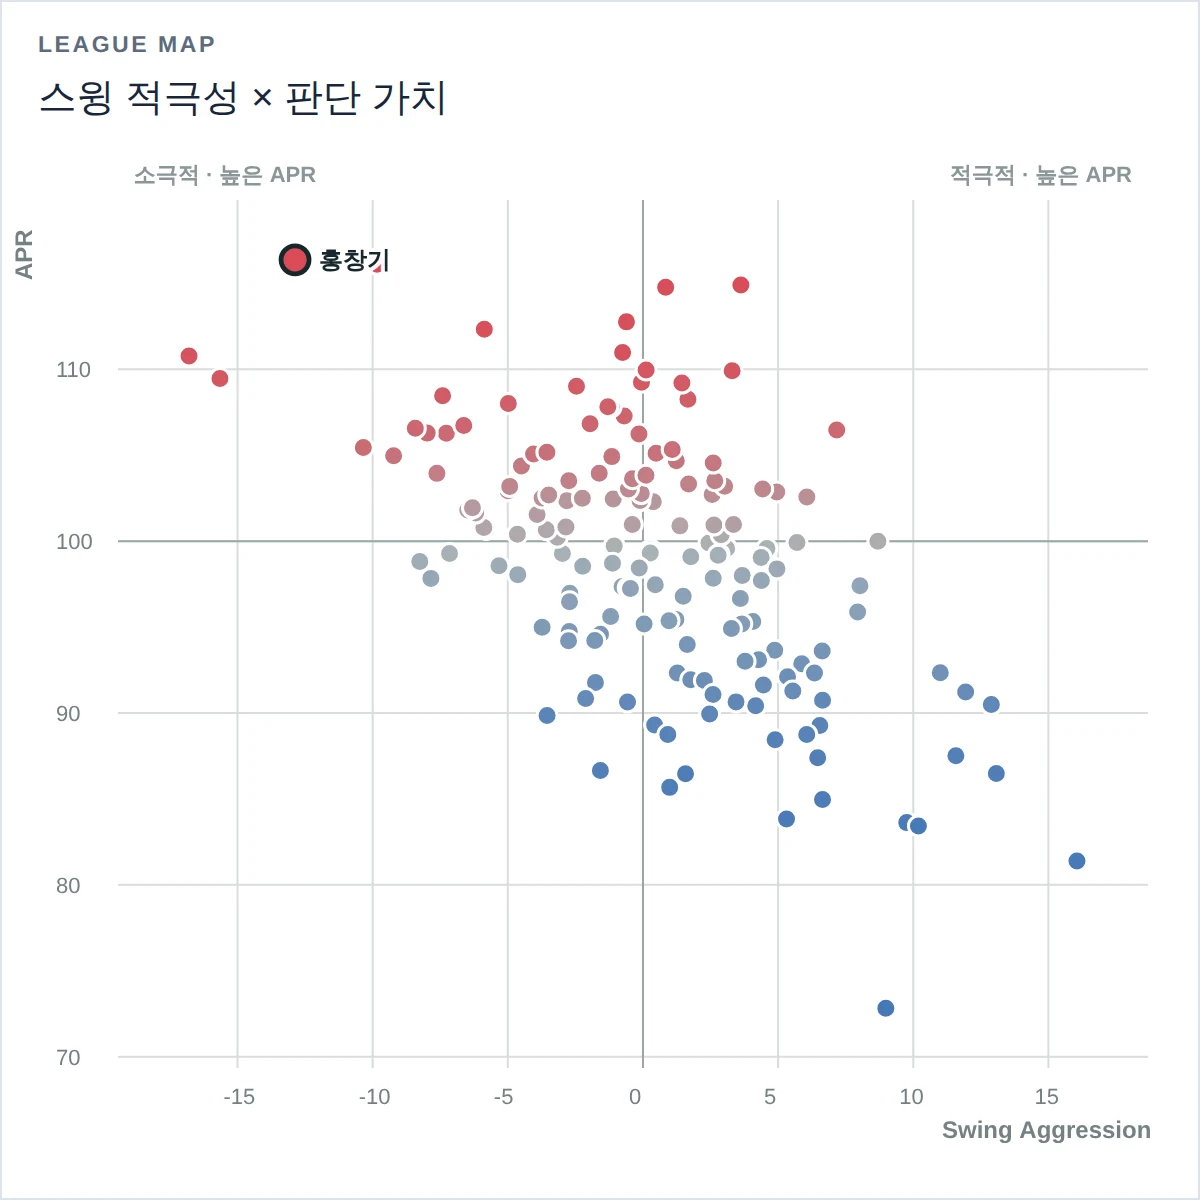
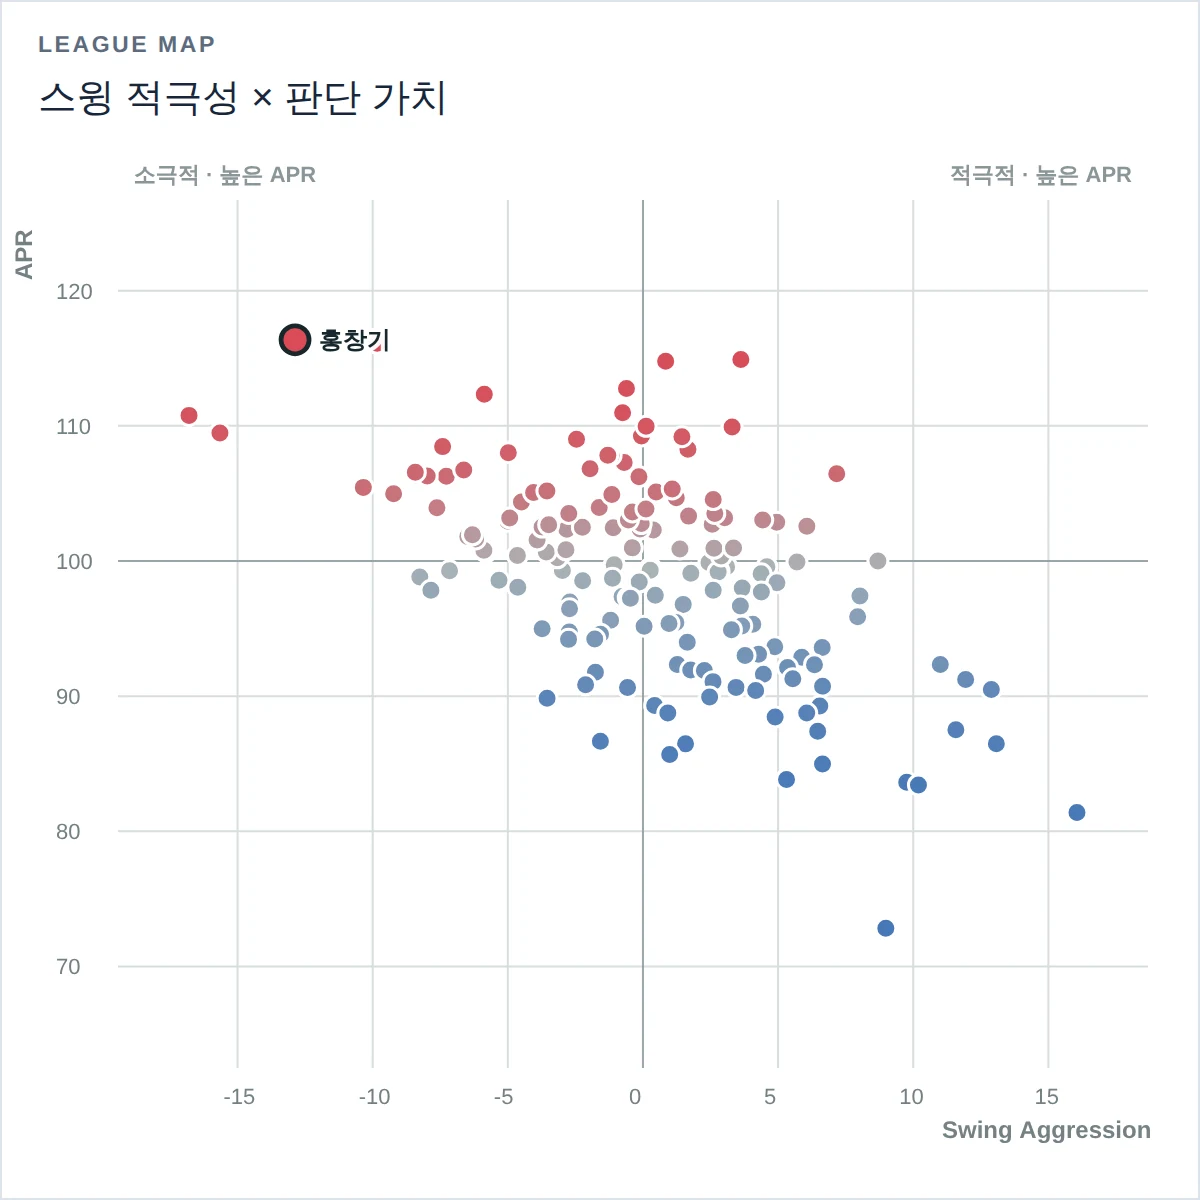
web: League Map 격자를 정사각형으로, 순위표 제목을 Decision Leaderboard로
- 산점도 축 범위를 조정해 SA 5 × APR 10 격자 한 칸이 가로·세로 같은
  픽셀이 되게 했다. 좁은 축이 칸 크기를 정하고, 다른 축은 데이터
  중심을 기준으로 넓힌다.
- 순위표 제목 "APR 순위"를 "Decision Leaderboard"로 바꿨다.

Claude-Session: https://claude.ai/code/session_01D5vNG8LeuVMrvTeSxZqr8g

diff --git a/web/zone-awareness/index.html b/web/zone-awareness/index.html
@@ -25,7 +25,7 @@
         <div class="canvas-wrap"><canvas id="scatter" width="760" height="560" aria-label="Swing Aggression과 APR 리그 산점도"></canvas><div class="tooltip" id="scatter-tip"></div></div>
       </article>
       <article class="card leaderboard-card">
-        <div class="card-head"><div><p class="eyebrow">QUALIFIED</p><h2>APR 순위</h2></div><span id="qualified-count"></span></div>
+        <div class="card-head"><div><p class="eyebrow">QUALIFIED</p><h2>Decision Leaderboard</h2></div><span id="qualified-count"></span></div>
         <label class="search"><span>선수 검색</span><input id="player-search" type="search" placeholder="이름 또는 팀"></label>
         <div class="table-wrap"><table><thead><tr><th data-sort="rank">#</th><th data-sort="batter_name">선수</th><th data-sort="apr">APR</th><th data-sort="za_raw">ZA</th><th data-sort="swing_aggression">SA</th></tr></thead><tbody id="leaderboard"></tbody></table></div>
       </article>
@@ -68,6 +68,6 @@
 
     <section class="method card"><p class="eyebrow">METHOD · 2019–2026</p><h2>읽는 법</h2><div><p><strong>APR</strong>(Approach)은 Swing·Take 선택의 득점 가치를 wRC+처럼 나타냅니다. 공마다 위치·카운트·구종·구속 등이 같은 공에서 리그 평균 타자가 했을 선택을 기준으로, 실제 선택이 기대득점을 얼마나 더 얻었는지 합산합니다. 리그 평균이 100이고, 120이면 선택 가치가 평균보다 20% 많다는 뜻입니다. 공을 적게 본 타자는 표본만큼 평균 쪽으로 당겨 계산합니다. APR Percentile은 시즌 300구 이상 타자 분포에서의 위치이며, 300구 미만 타자도 같은 기준으로 표시하되 자격 미달로 구분합니다.</p><p><strong>ZA</strong>(Zone Awareness)는 스트라이크는 치고 볼은 거르는 구별 능력입니다. 같은 공에서 리그 평균 타자의 선택보다 판정에 맞는 선택을 몇 %p 더 했는지를 나타내며, 득점 가치로 가중하지 않습니다. 그래서 2스트라이크 판단도 0스트라이크 판단과 같은 무게로 셉니다(옛 이름 SBJ). <strong>SA</strong>(Swing Aggression)는 같은 공에서 기대되는 스윙률보다 실제로 얼마나 더 휘둘렀는지를 나타내는 성향 지표이며, 높고 낮음이 좋고 나쁨을 뜻하지 않습니다.</p><p><strong>세 지표의 관계</strong> · APR은 “선택이 득점으로 얼마였나”, ZA는 “볼과 스트라이크를 가려 쳤나”, SA는 “얼마나 휘둘렀나”를 봅니다. 같은 선구안에서 나온 지표라 서로 상관하지만 같은 것을 재지 않습니다. 판정은 정확하지만 2스트라이크처럼 비싼 상황에서 자주 틀리는 타자는 ZA보다 APR이 낮게 나옵니다. 공격성은 SA로 따로 보며, ZA도 공격성과 완전히 무관하지는 않습니다.</p><p><strong>알려진 한계</strong> · 스윙의 가치는 리그 평균 타자의 실행 능력으로 계산하므로, 어려운 공도 잘 쳐내는 타자의 컨택·장타 능력은 반영되지 않습니다. 또 존 밖 스윙의 손해가 존 안 테이크의 손해보다 커서, 덜 휘두르는 타자의 APR이 높게 나오는 경향이 있습니다.</p><p><strong>모형 안정성</strong> · 스윙 기대치는 존 안과 존 밖을 나눠 보정해 리그 평균 타자가 0이 되도록 맞추고, 스트라이크 확률은 모형 5개의 평균입니다. 같은 데이터로 다시 적합해도 선수 ZA가 달라지는 폭은 평균 0.05pp 이하입니다. 선택 가치(DV·APR) 계산의 무브먼트는 TrackMan으로 검증한 구장·날짜 보정값을 씁니다.</p><p><strong>데이터 정정</strong> · 볼로 기록된 번트 파울과 번트 헛스윙은 TrackMan·네이버 중계로 확인해 스윙·테이크에서 뺐고, 대타가 이어받은 카운트와 피치클락 위반은 네이버 중계 카운트로 바로잡았습니다. 보고 위치가 자기 궤적과 1cm 넘게 어긋나는 공(2025년 6구)은 기록이 섞인 것으로 보고 제외했습니다.</p></div><p id="season-method"></p></section>
   </main>
-  <script src="zone-awareness.js?v=20261003-2"></script>
+  <script src="zone-awareness.js?v=20261003-3"></script>
 </body>
 </html>

diff --git a/web/zone-awareness/zone-awareness.js b/web/zone-awareness/zone-awareness.js
@@ -75,11 +75,14 @@ function drawScatter(){
   const canvas=$("#scatter"), {ctx,width:w,height:h}=canvasContext(canvas), pad={l:58,r:25,t:28,b:48};
   const xs=state.players.map(p=>p.swing_aggression), ys=state.players.map(p=>p.apr);
   const xPad=Math.max(1,(Math.max(...xs)-Math.min(...xs))*.08), yPad=Math.max(2,(Math.max(...ys)-Math.min(...ys))*.08);
-  const xLo=Math.min(...xs)-xPad,xHi=Math.max(...xs)+xPad,yLo=Math.min(...ys)-yPad,yHi=Math.max(...ys)+yPad;
-  const x=v=>pad.l+(v-xLo)/(xHi-xLo)*(w-pad.l-pad.r), y=v=>h-pad.b-(v-yLo)/(yHi-yLo)*(h-pad.t-pad.b);
+  const xStep=5,yStep=10,plotW=w-pad.l-pad.r,plotH=h-pad.t-pad.b;
+  // Square grid cells: one 5-SA by 10-APR cell takes the same pixels both ways; the tighter axis sets the size and the other widens around its centre.
+  let xLo=Math.min(...xs)-xPad,xHi=Math.max(...xs)+xPad,yLo=Math.min(...ys)-yPad,yHi=Math.max(...ys)+yPad;
+  const cell=Math.min(plotW/(xHi-xLo)*xStep,plotH/(yHi-yLo)*yStep),xMid=(xLo+xHi)/2,yMid=(yLo+yHi)/2,xHalf=plotW/cell*xStep/2,yHalf=plotH/cell*yStep/2;
+  xLo=xMid-xHalf;xHi=xMid+xHalf;yLo=yMid-yHalf;yHi=yMid+yHalf;
+  const x=v=>pad.l+(v-xLo)/(xHi-xLo)*plotW, y=v=>h-pad.b-(v-yLo)/(yHi-yLo)*plotH;
   ctx.clearRect(0,0,w,h); ctx.fillStyle="#ffffff";ctx.fillRect(0,0,w,h);
   ctx.strokeStyle="#d8dddd";ctx.lineWidth=1;ctx.font="11px Arial";ctx.fillStyle="#748084";
-  const xStep=5,yStep=10;
   for(let v=Math.ceil(xLo/xStep)*xStep;v<=xHi;v+=xStep){ctx.beginPath();ctx.moveTo(x(v),pad.t);ctx.lineTo(x(v),h-pad.b);ctx.stroke();ctx.fillText(v,x(v)-7,h-pad.b+18);}
   for(let v=Math.ceil(yLo/yStep)*yStep;v<=yHi;v+=yStep){ctx.beginPath();ctx.moveTo(pad.l,y(v));ctx.lineTo(w-pad.r,y(v));ctx.stroke();ctx.fillText(v,pad.l-31,y(v)+4);}
   ctx.strokeStyle="#9aa6a9";ctx.lineWidth=1;ctx.beginPath();ctx.moveTo(x(0),pad.t);ctx.lineTo(x(0),h-pad.b);ctx.moveTo(pad.l,y(100));ctx.lineTo(w-pad.r,y(100));ctx.stroke();
